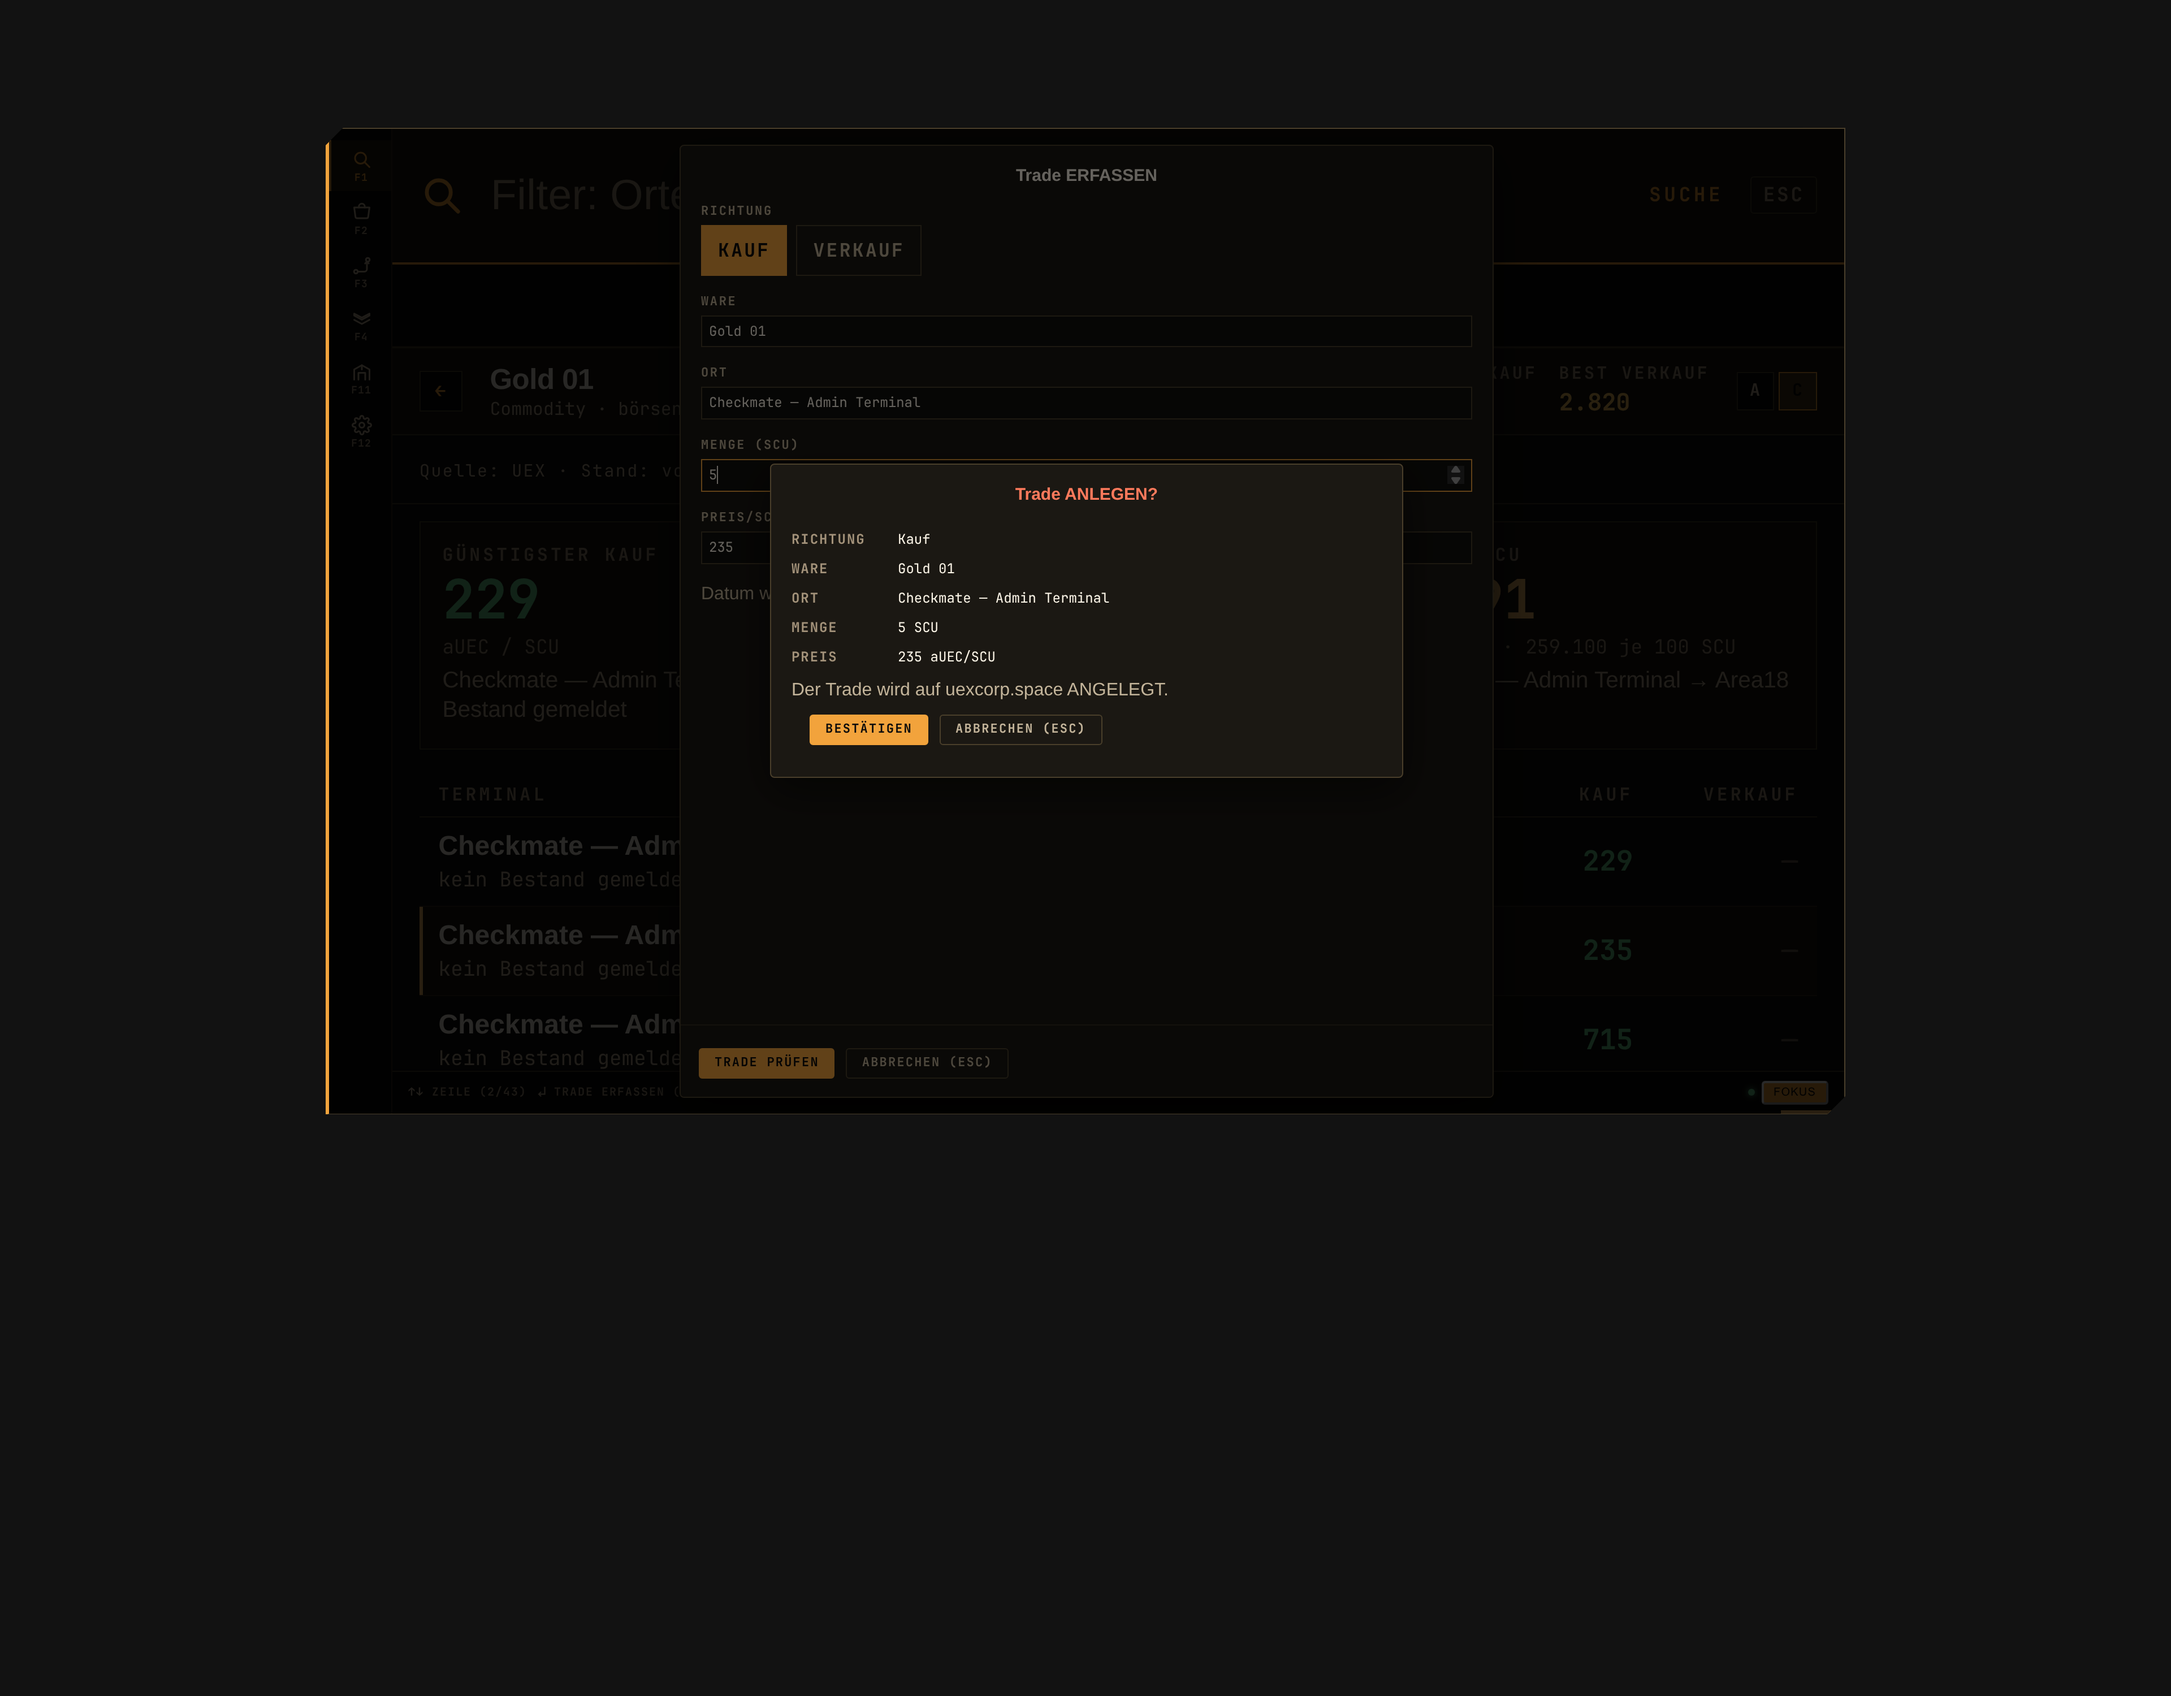
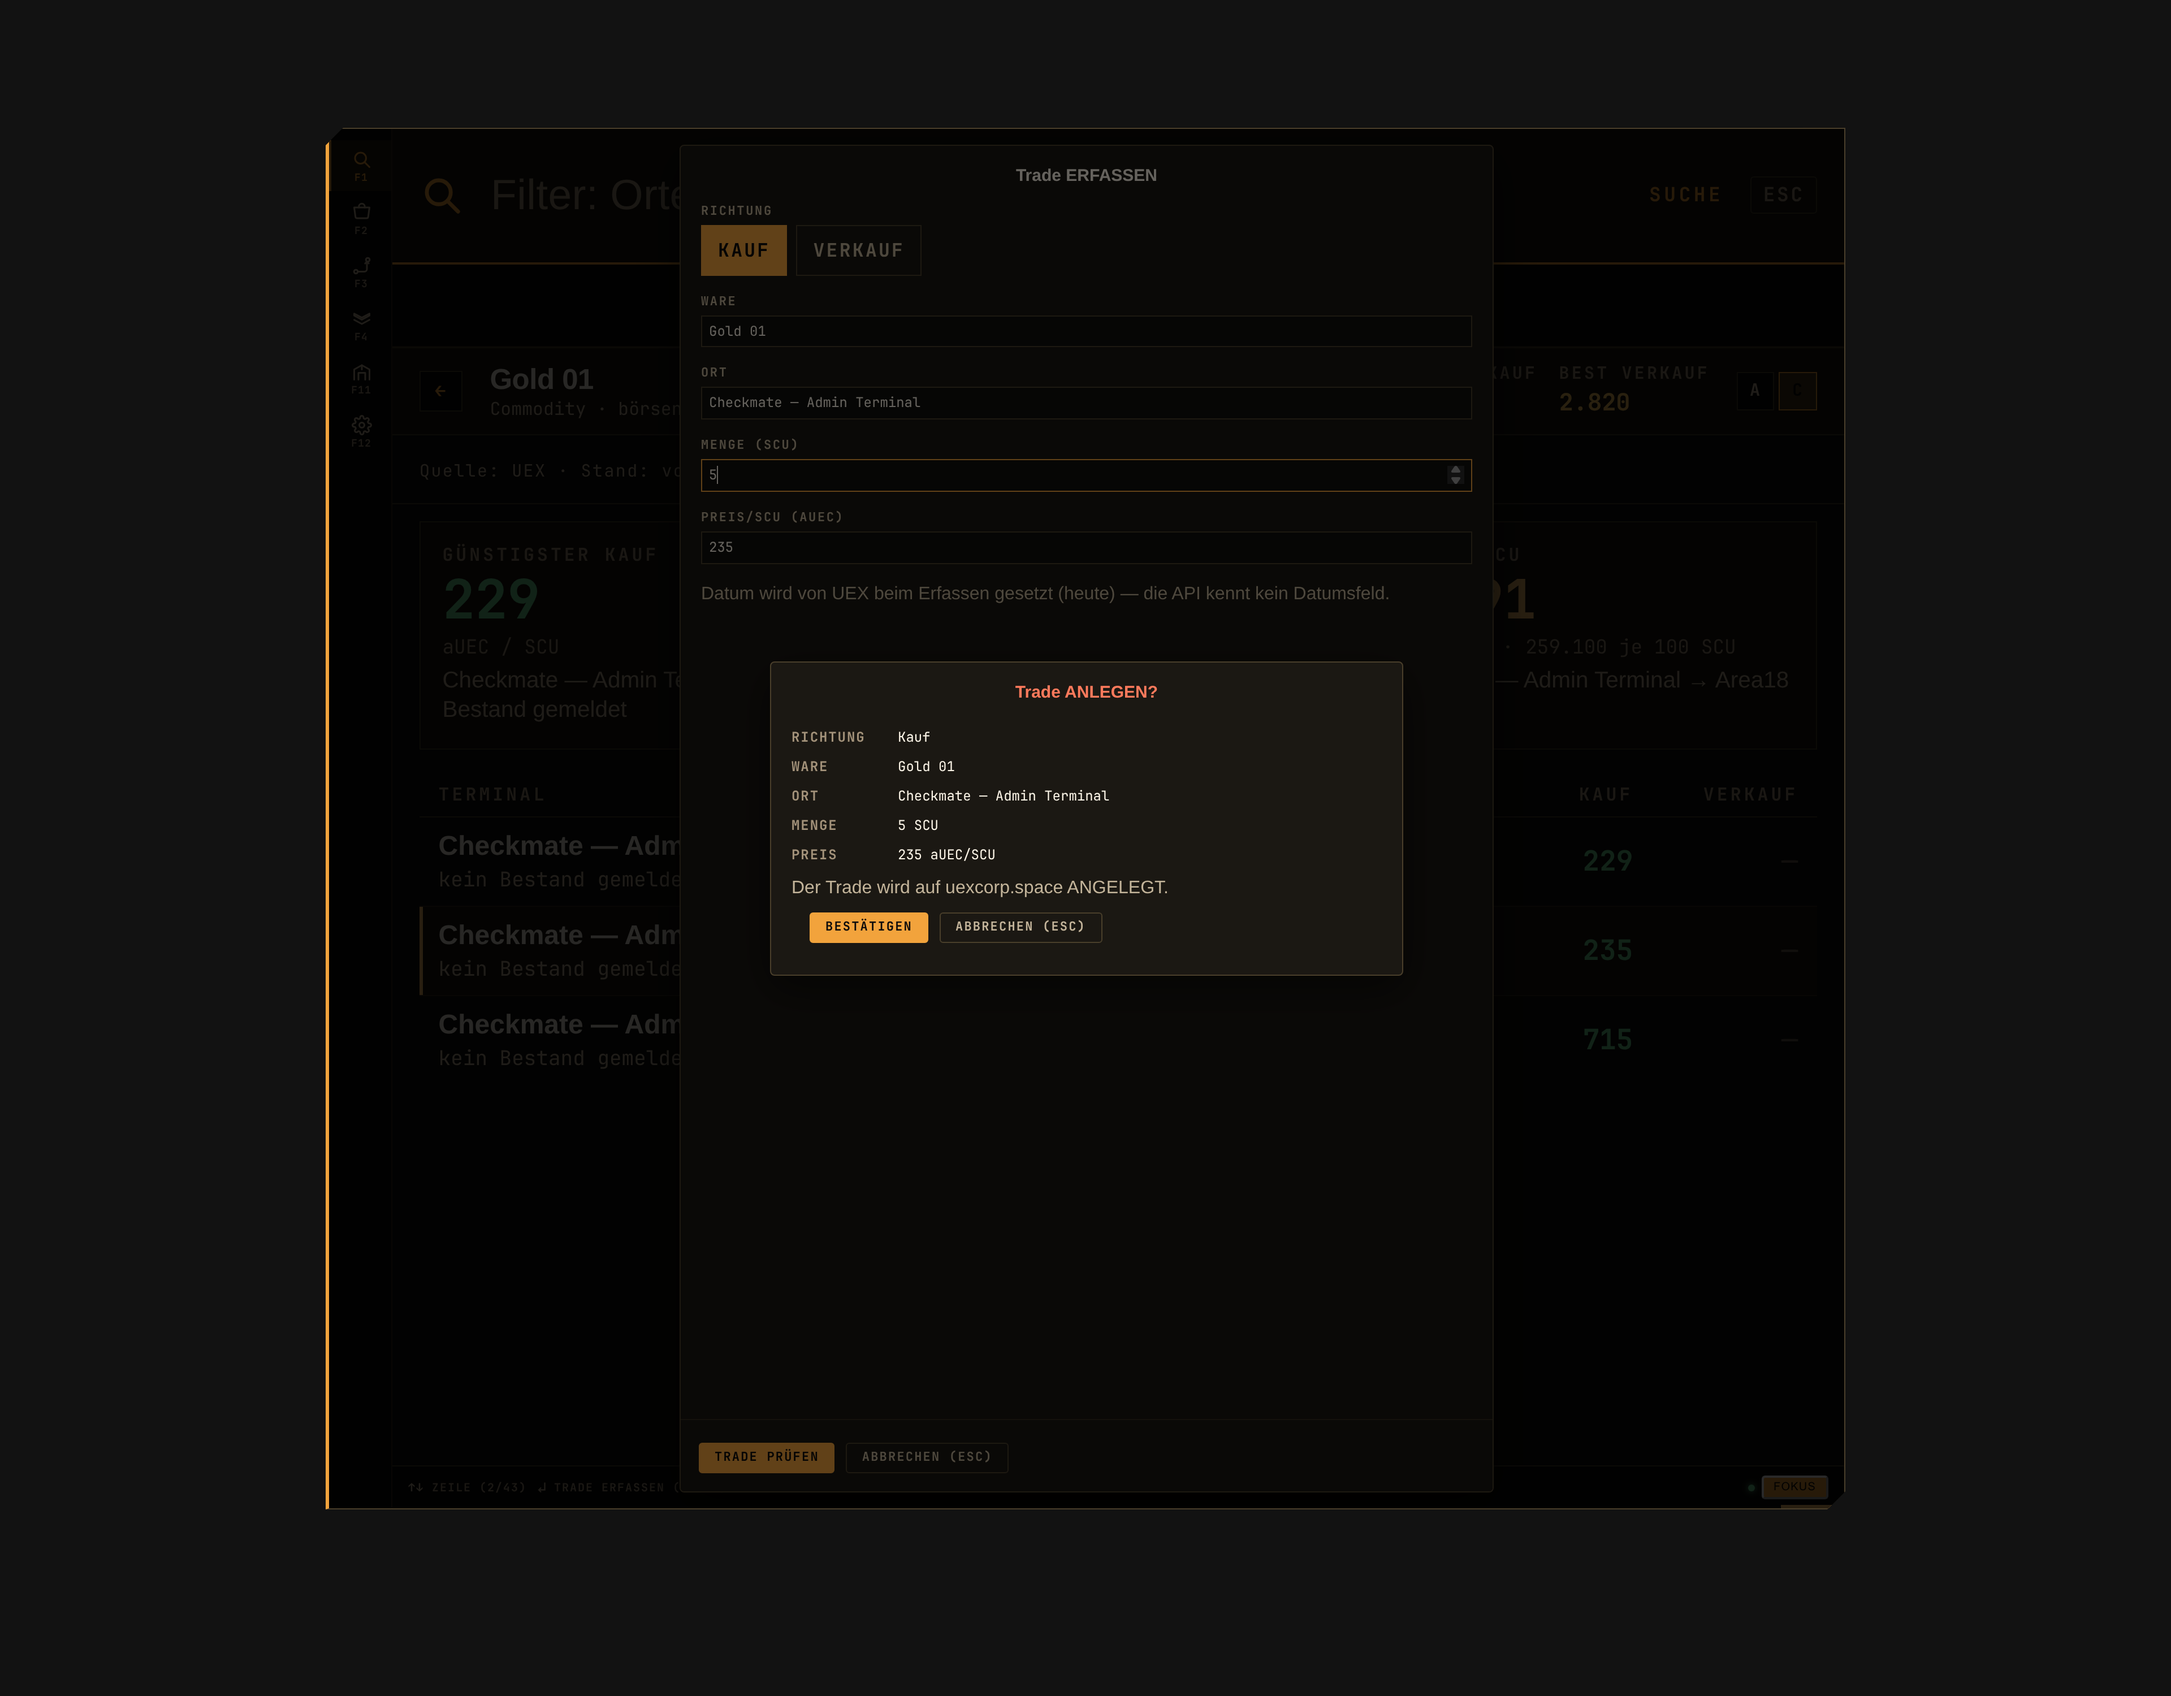
RB (t_94484d0c): Listing-Popup — Shell-Höhe wirklich erhöhen (height statt Cap; Reassert-Verdacht widerlegt: Fenster konstant 3440x1440, kein set_size beteiligt), Shell-Box wächst 429→1223px belegt, Restore nach Schließen; Description-Textarea volle Breite (.rtext 130px container-seitig übersteuert)

diff --git a/src/app.css b/src/app.css
@@ -107,9 +107,32 @@ html[data-palette="bloom"] {
   color-scheme: dark;
 }
 
-/* Q2 (t_56d5264a): Listing-Formular offen → Shell temporär höher. */
+/* Q2 (t_56d5264a): Listing-Formular offen → Shell temporär höher.
+   RB (t_94484d0c, Root-Cause-Fix): das Erhöhen von --h-max allein hebt nur
+   das MAX-Height-CAP — die Shell-Höhe ist content-driven (Probe: computed
+   max-height 1117.5→1222.5px, aber Bounding-Rect 429px→429px, unverändert).
+   Das Popup (.advert-scrim, position:absolute inset:0) trägt nichts zur
+   Content-Höhe bei → die Shell wuchs nie. FIX: bei offenem Formular die
+   Shell-Box AUF DIE vollem nutzbare Höhe setzen (height statt Cap); beim
+   Schließen fällt die Klasse weg → alte Größe automatisch. Kein set_size,
+   kein Hyprland-Dispatch — das Overlay-Fenster spannt ohnehin den ganzen
+   Monitor (overlay.rs place_on_pointer_monitor), die sichtbare Höhe ist
+   die Shell-Box. Gilt konsistent für beide Formular-Popups (advert + trk). */
 .shell-advert {
   --h-max: calc(100vh - var(--pad-top) - 1.5vh);
+  height: calc(var(--h-max) / var(--ui-scale, 1));
+}
+html[data-window="spotlight"] .shell-advert {
+  height: calc((var(--h-max) - var(--pad-top) - 2vh) / var(--ui-scale, 1));
+}
+
+/* RB (t_94484d0c): Description-Textarea nutzt die Breite nicht — Root-Cause:
+   .rtext { width:130px } am Textarea-Element selbst; ein eigenes width
+   übersteuert align-items:stretch aus dem QZ-Flex-Layout. Fix über den
+   Container erzwingen (Spezifität 0,2,0 > .rtext 0,1,0), statt Einzel-
+   klassen zu bauen. */
+.advert-modal textarea {
+  width: 100%;
 }
 
 /* --------------------------- Basis --------------------------------------- */

diff --git a/src/routes/+page.svelte b/src/routes/+page.svelte
@@ -3969,7 +3969,7 @@ const MARKET_STALE_SECS = 300; // P3: Market-Daten älter als 5 min → Hintergr
 <svelte:window onkeydown={onKey} />
 
 <main class="pal-root" bind:clientWidth={palW}>
-	<div class="shell" class:in-detail={inDetail} class:shell-advert={advertOpen}>
+	<div class="shell" class:in-detail={inDetail} class:shell-advert={advertOpen || trkOpen}>
 
 												<!-- PT: Formular „Trade erfassen" als modales Popup.
 											     QW-5 (t_28bfd027): der frühere confirm-scrim war position:fixed

diff --git a/docs/scripts/q2-detail-enter-probe.py b/docs/scripts/q2-detail-enter-probe.py
@@ -284,8 +284,21 @@ async def main():
         check("qe-advert-opens", opened is True and adv is True)
         h_open = await shell_h()
         mh_open = await shell_maxh()
-        check("qe-shell-taller-with-popup", px(mh_open) > px(mh_before) + 40,
+        # RB (t_94484d0c): computed max-height allein reicht NICHT (Q2-Defekt:
+        # cap 1117.5→1222.5, aber rect 429→429). Die echte Box muss wachsen.
+        check("qe-shell-taller-with-popup", px(mh_open) > px(mh_before) + 40 and px(h_open) > px(h_before) + 300,
               f"maxHeight before={mh_before} open={mh_open} (rect {h_before}->{h_open})")
+        # RB: Description-Textarea in voller Popup-Breite (.rtext 130px fix
+        # muss container-seitig übersteuert sein).
+        tw = await js("(function(){var t=document.querySelector('.advert-modal textarea'); var m=document.querySelector('.advert-modal'); if(!t||!m) return null; return Math.round(t.getBoundingClientRect().width)+'/'+Math.round(m.getBoundingClientRect().width);})()")
+        if tw and '/' in tw:
+            a, b = tw.split('/')
+            check("qe-desc-full-width", float(a) >= float(b) * 0.8, f"textarea/modal width {tw}")
+        else:
+            check("qe-desc-full-width", False, f"width probe: {tw}")
+        # RB: Formular einmal sichtbar — Modal-Unterkante innerhalb der Shell.
+        vis = await js("(function(){var m=document.querySelector('.advert-modal'); var f=document.querySelector('.advert-foot'); if(!m) return null; return {m: Math.round(m.getBoundingClientRect().bottom), s: Math.round(m.parentElement.getBoundingClientRect().bottom), foot: f? Math.round(f.getBoundingClientRect().bottom):null};})()") or {}
+        check("qe-modal-inside-shell", vis.get("m", 10**9) <= vis.get("s", 0) + 2, f"bottom modal={vis.get('m')} shell={vis.get('s')}")
         await shot("q2-qe-shell-tall-popup.png")
         # schließen (Esc) → Restore
         for d in (True, False):
